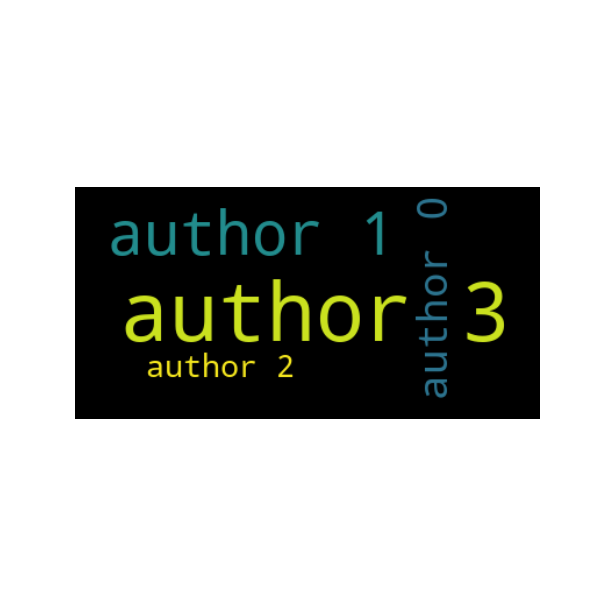
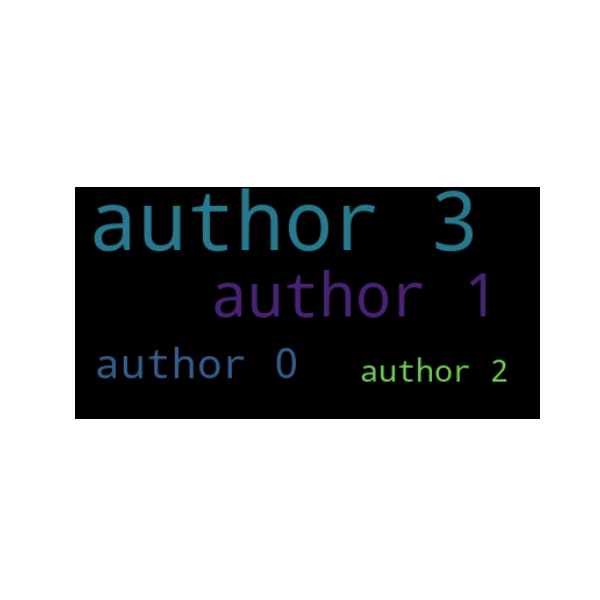
cmap by name

diff --git a/techminer/plot.py b/techminer/plot.py
@@ -246,7 +246,7 @@ class Plot:
 
         return cd.plot()
 
-    def tree(self, cmap=plt.cm.Blues, alpha=0.9):
+    def tree(self, cmap="Blues", alpha=0.9):
         """Creates a classification plot from a dataframe.
 
         >>> import pandas as pd
@@ -275,6 +275,7 @@ class Plot:
         """
         plt.clf()
         x = self.df.copy()
+        cmap = plt.cm.get_cmap(cmap)
         colors = [
             cmap((0.2 + 0.75 * x[x.columns[1]][i] / max(x[x.columns[1]])))
             for i in range(len(x[x.columns[1]]))
@@ -289,7 +290,7 @@ class Plot:
         self,
         axis=0,
         rmax=80,
-        cmap=plt.cm.Blues,
+        cmap="Blues",
         grid_lw=1.0,
         grid_c="gray",
         grid_ls=":",
@@ -336,6 +337,7 @@ class Plot:
 
         """
         plt.clf()
+        cmap = plt.cm.get_cmap(cmap)
         x = self.df.copy()
         if axis == "index":
             axis == 0
@@ -413,7 +415,7 @@ class Plot:
 
         return plt.gca()
 
-    def worldmap(self, cmap=plt.cm.Pastel2, legend=True, *args, **kwargs):
+    def worldmap(self, cmap="Pastel2", legend=True, *args, **kwargs):
         """Worldmap plot with the number of documents per country.
         
         >>> import pandas as pd
@@ -444,6 +446,7 @@ class Plot:
         
         """
         plt.clf()
+        cmap = plt.cm.get_cmap(cmap)
         x = self.df.copy()
         x[x.columns[0]] = x[x.columns[0]].map(
             lambda w: w.replace("United States", "United States of America")
@@ -526,7 +529,7 @@ class Plot:
 
     def pie(
         self,
-        cmap=plt.cm.Greys,
+        cmap="Greys",
         explode=None,
         autopct=None,
         pctdistance=0.6,
@@ -567,6 +570,7 @@ class Plot:
 
         """
         plt.clf()
+        cmap = plt.cm.get_cmap(cmap)
         x = self.df.copy()
         x.pop("ID")
         colors = None
@@ -594,7 +598,7 @@ class Plot:
         )
         return plt.gca()
 
-    def bar(self, width=0.8, bottom=None, align="center", cmap=plt.cm.Greys, **kwargs):
+    def bar(self, width=0.8, bottom=None, align="center", cmap="Greys", **kwargs):
         """Creates a bar plot from a dataframe.
 
         >>> import pandas as pd
@@ -621,6 +625,7 @@ class Plot:
 
         """
         plt.clf()
+        cmap = plt.cm.get_cmap(cmap)
         x = self.df.copy()
         x.pop("ID")
         if cmap is not None:
@@ -677,6 +682,7 @@ class Plot:
         x = self.df.copy()
         x.pop("ID")
         if cmap is not None:
+            cmap = plt.cm.get_cmap(cmap)
             kwargs["color"] = [
                 cmap((0.2 + 0.75 * x[x.columns[1]][i] / max(x[x.columns[1]])))
                 for i in range(len(x[x.columns[1]]))
